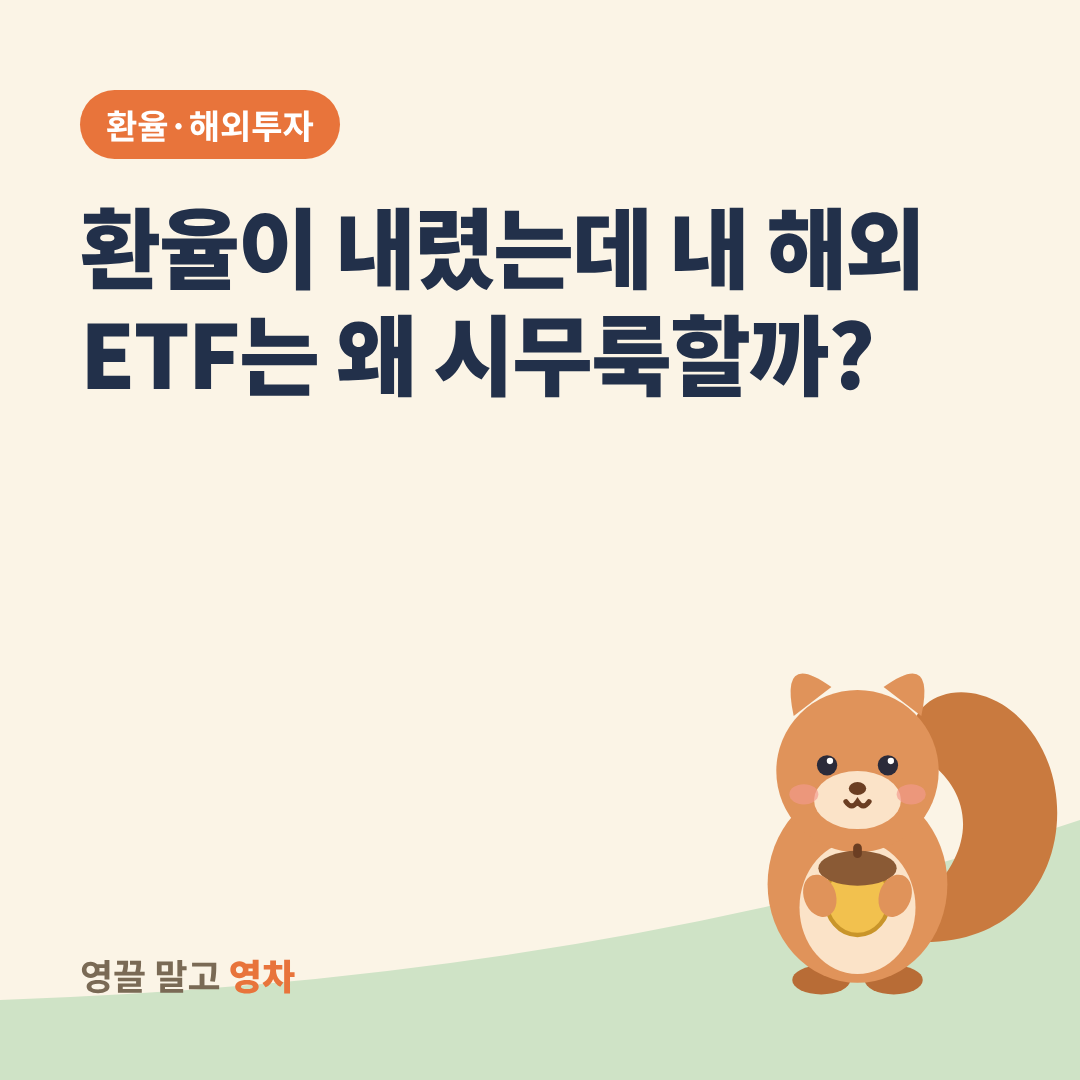
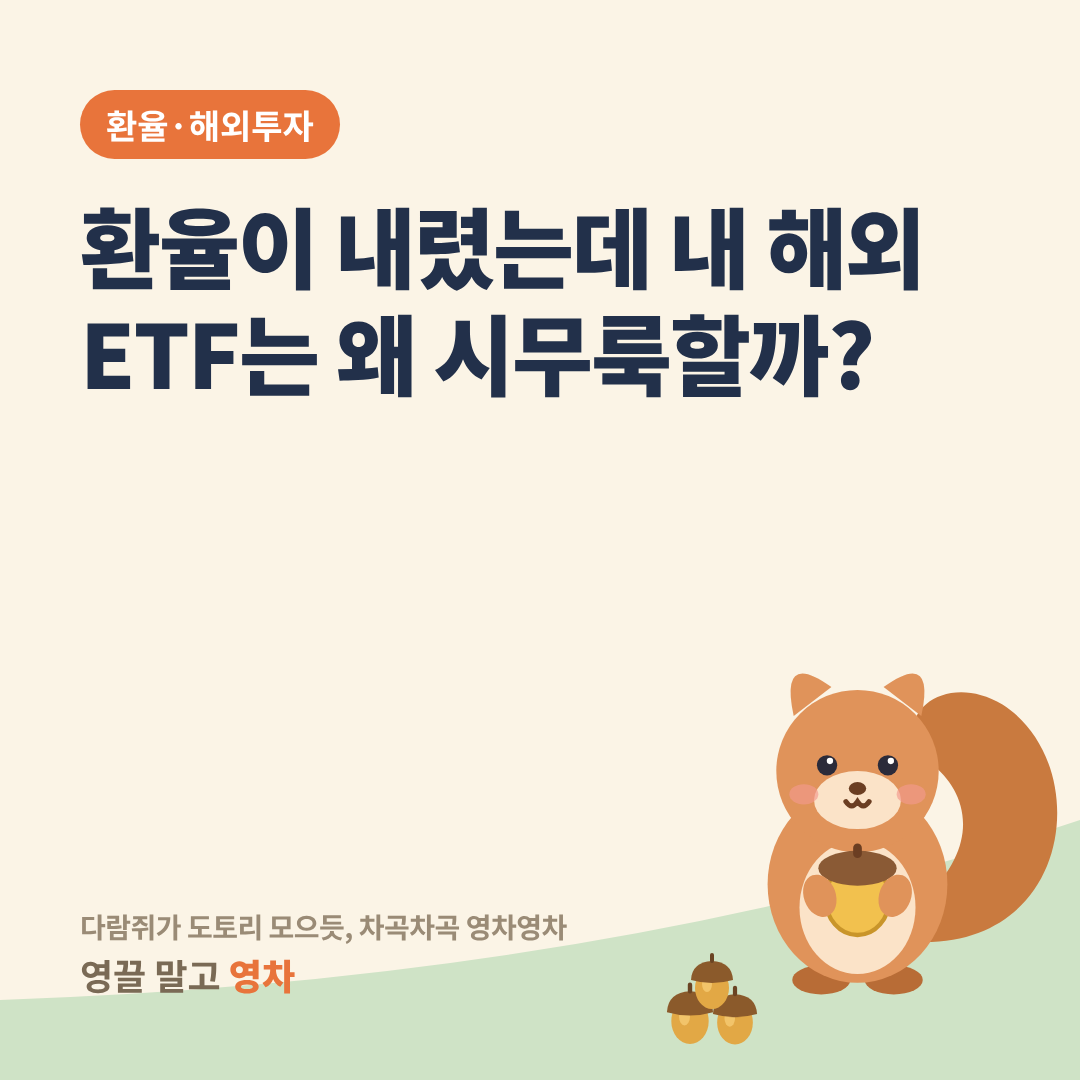
Thumbnail tagline and acorn pile
Claude-Session: https://claude.ai/code/session_01ExZcvkdjMWmRUbcyuCMr25

Changed region(s): [[0.0611, 0.825, 0.5194, 0.8861], [0.6111, 0.8861, 0.7028, 0.9778]]

diff --git a/tools/make_thumb.py b/tools/make_thumb.py
@@ -9,10 +9,11 @@ body{{margin:0}}.w{{width:1080px;height:1080px;background:#FBF4E6;position:relat
 .t{{position:absolute;left:80px;right:80px;top:190px;font-size:88px;font-weight:900;line-height:1.22;color:#22304A;letter-spacing:-2px;word-break:keep-all}}
 .f{{position:absolute;left:80px;bottom:80px;font-size:36px;font-weight:700;color:#7A6A55}}.f b{{color:#E8743B}}
 .hill{{position:absolute;left:0;bottom:0}}
+.sub{{position:absolute;left:80px;bottom:134px;font-size:28px;font-weight:600;color:#9A8B76;letter-spacing:-0.5px}}
 </style></head><body><div class="w"><div class="tag">{c}</div><div class="t">{t}</div>
 <svg class="hill" width="1080" height="1080" viewBox="0 0 1080 1080"><path d="M0 1080 L0 1000 Q 600 980 1080 820 L1080 1080 Z" fill="#CFE3C6"/>
-<g transform="translate(640 600) scale(1.45)">{SQ}</g></svg>
-<div class="f">영끌 말고 <b>영차</b></div></div></body></html>'''
+<g transform="translate(640 600) scale(1.45)">{SQ}</g><g transform="translate(690 1010) scale(1.1)"><ellipse cx="0" cy="10" rx="17" ry="21" fill="#E2A845"/><ellipse cx="-5" cy="6" rx="5" ry="8" fill="#F2C46A"/><path d="M-21 2 Q-20 -16 0 -17 Q20 -16 21 2 Q0 8 -21 2 Z" fill="#8B5A2B"/><rect x="-2" y="-25" width="4" height="10" rx="2" fill="#6B4423"/></g><g transform="translate(735 1012) scale(1.05)"><ellipse cx="0" cy="10" rx="17" ry="21" fill="#E2A845"/><ellipse cx="-5" cy="6" rx="5" ry="8" fill="#F2C46A"/><path d="M-21 2 Q-20 -16 0 -17 Q20 -16 21 2 Q0 8 -21 2 Z" fill="#8B5A2B"/><rect x="-2" y="-25" width="4" height="10" rx="2" fill="#6B4423"/></g><g transform="translate(712 978) scale(1.0)"><ellipse cx="0" cy="10" rx="17" ry="21" fill="#E2A845"/><ellipse cx="-5" cy="6" rx="5" ry="8" fill="#F2C46A"/><path d="M-21 2 Q-20 -16 0 -17 Q20 -16 21 2 Q0 8 -21 2 Z" fill="#8B5A2B"/><rect x="-2" y="-25" width="4" height="10" rx="2" fill="#6B4423"/></g></svg>
+<div class="sub">다람쥐가 도토리 모으듯, 차곡차곡 영차영차</div><div class="f">영끌 말고 <b>영차</b></div></div></body></html>'''
 items=json.load(open(sys.argv[1]))
 with sync_playwright() as p:
     b=p.chromium.launch(); pg=b.new_page(viewport={'width':1080,'height':1080})
